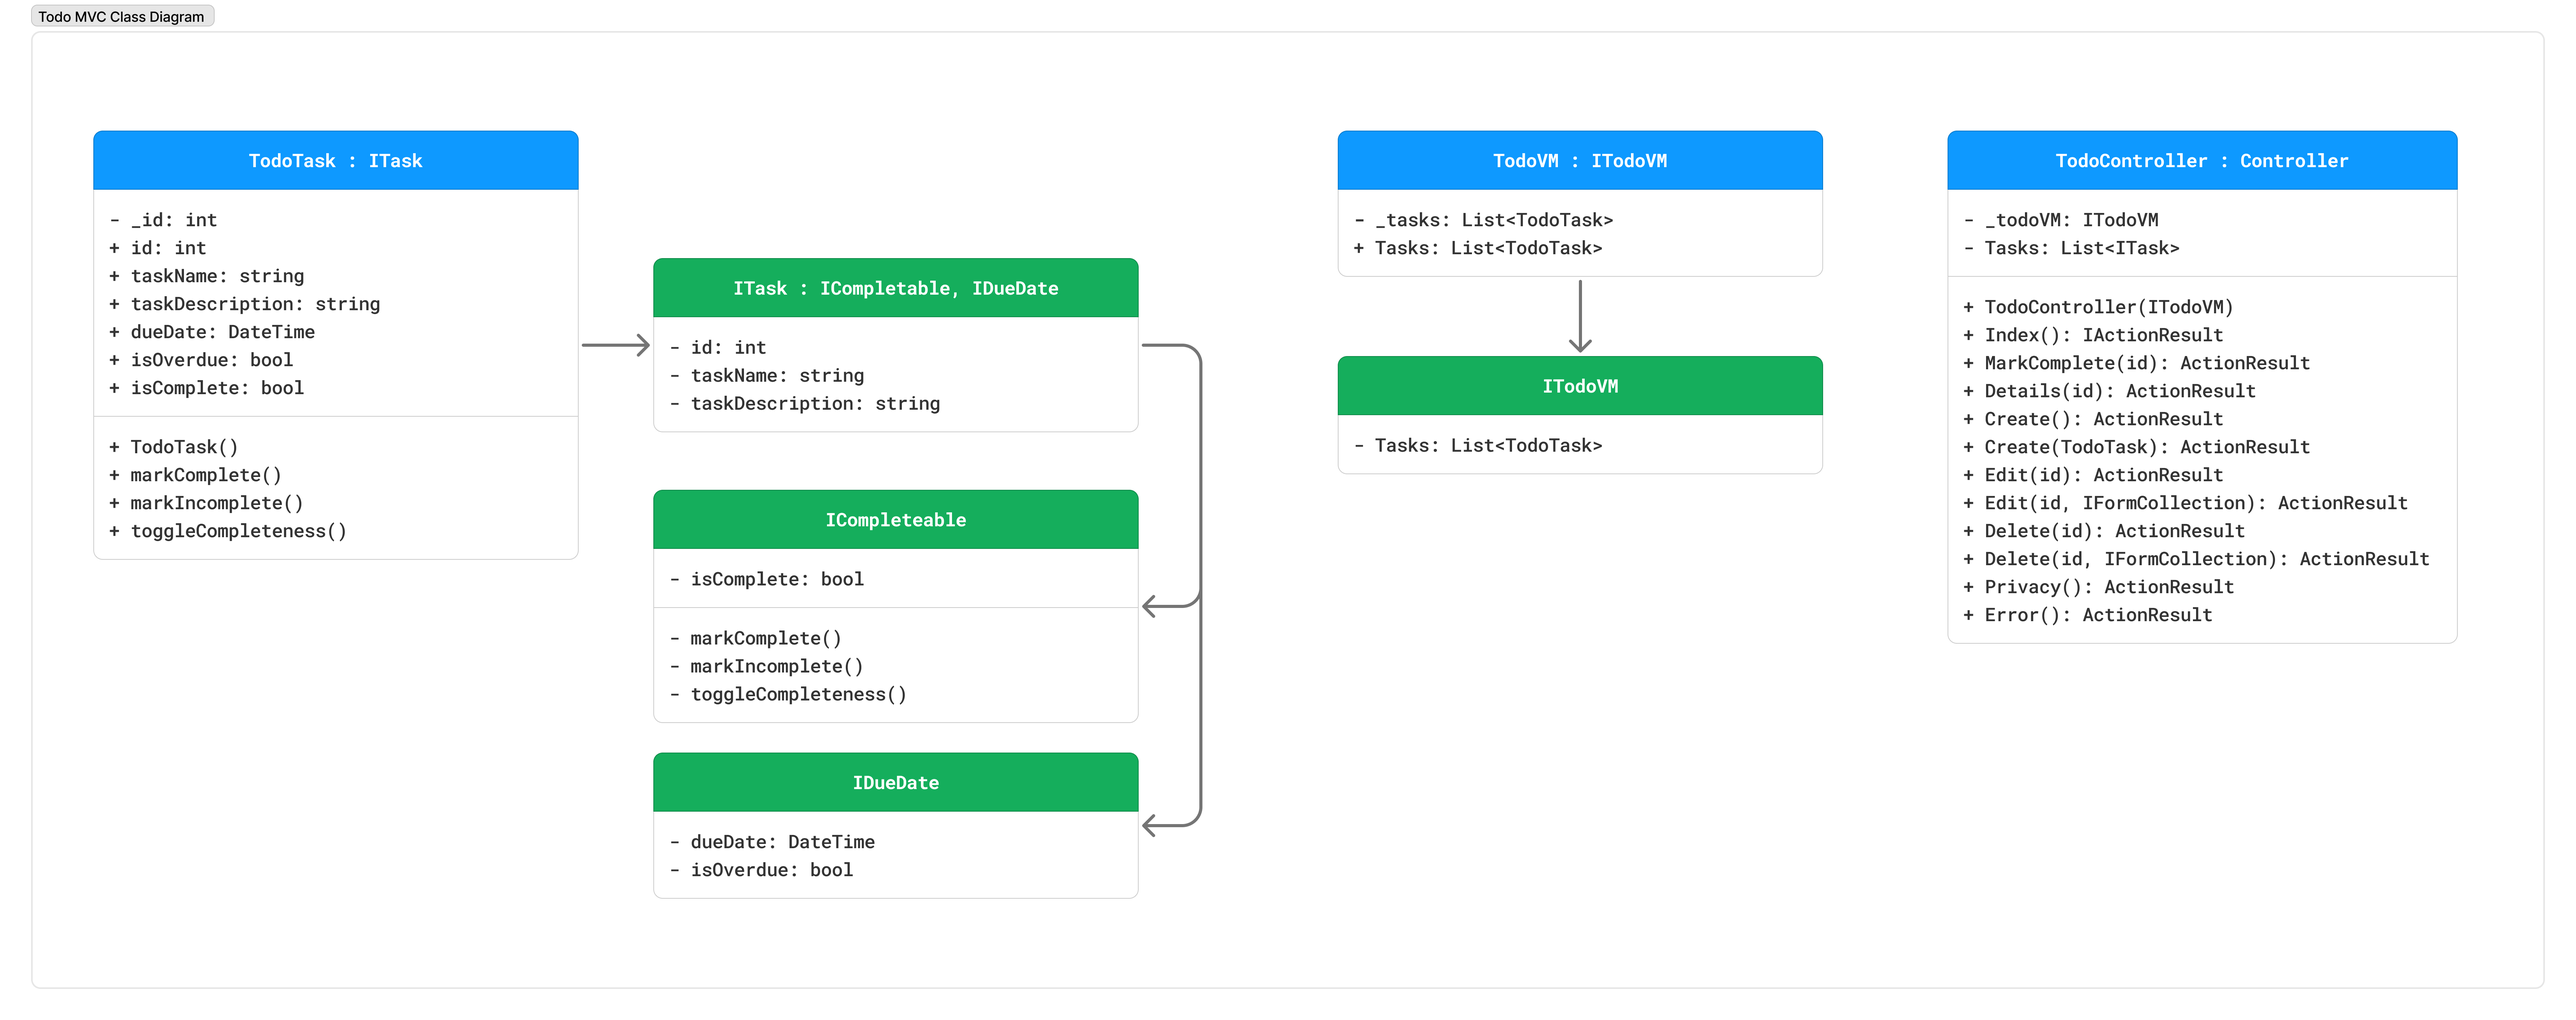
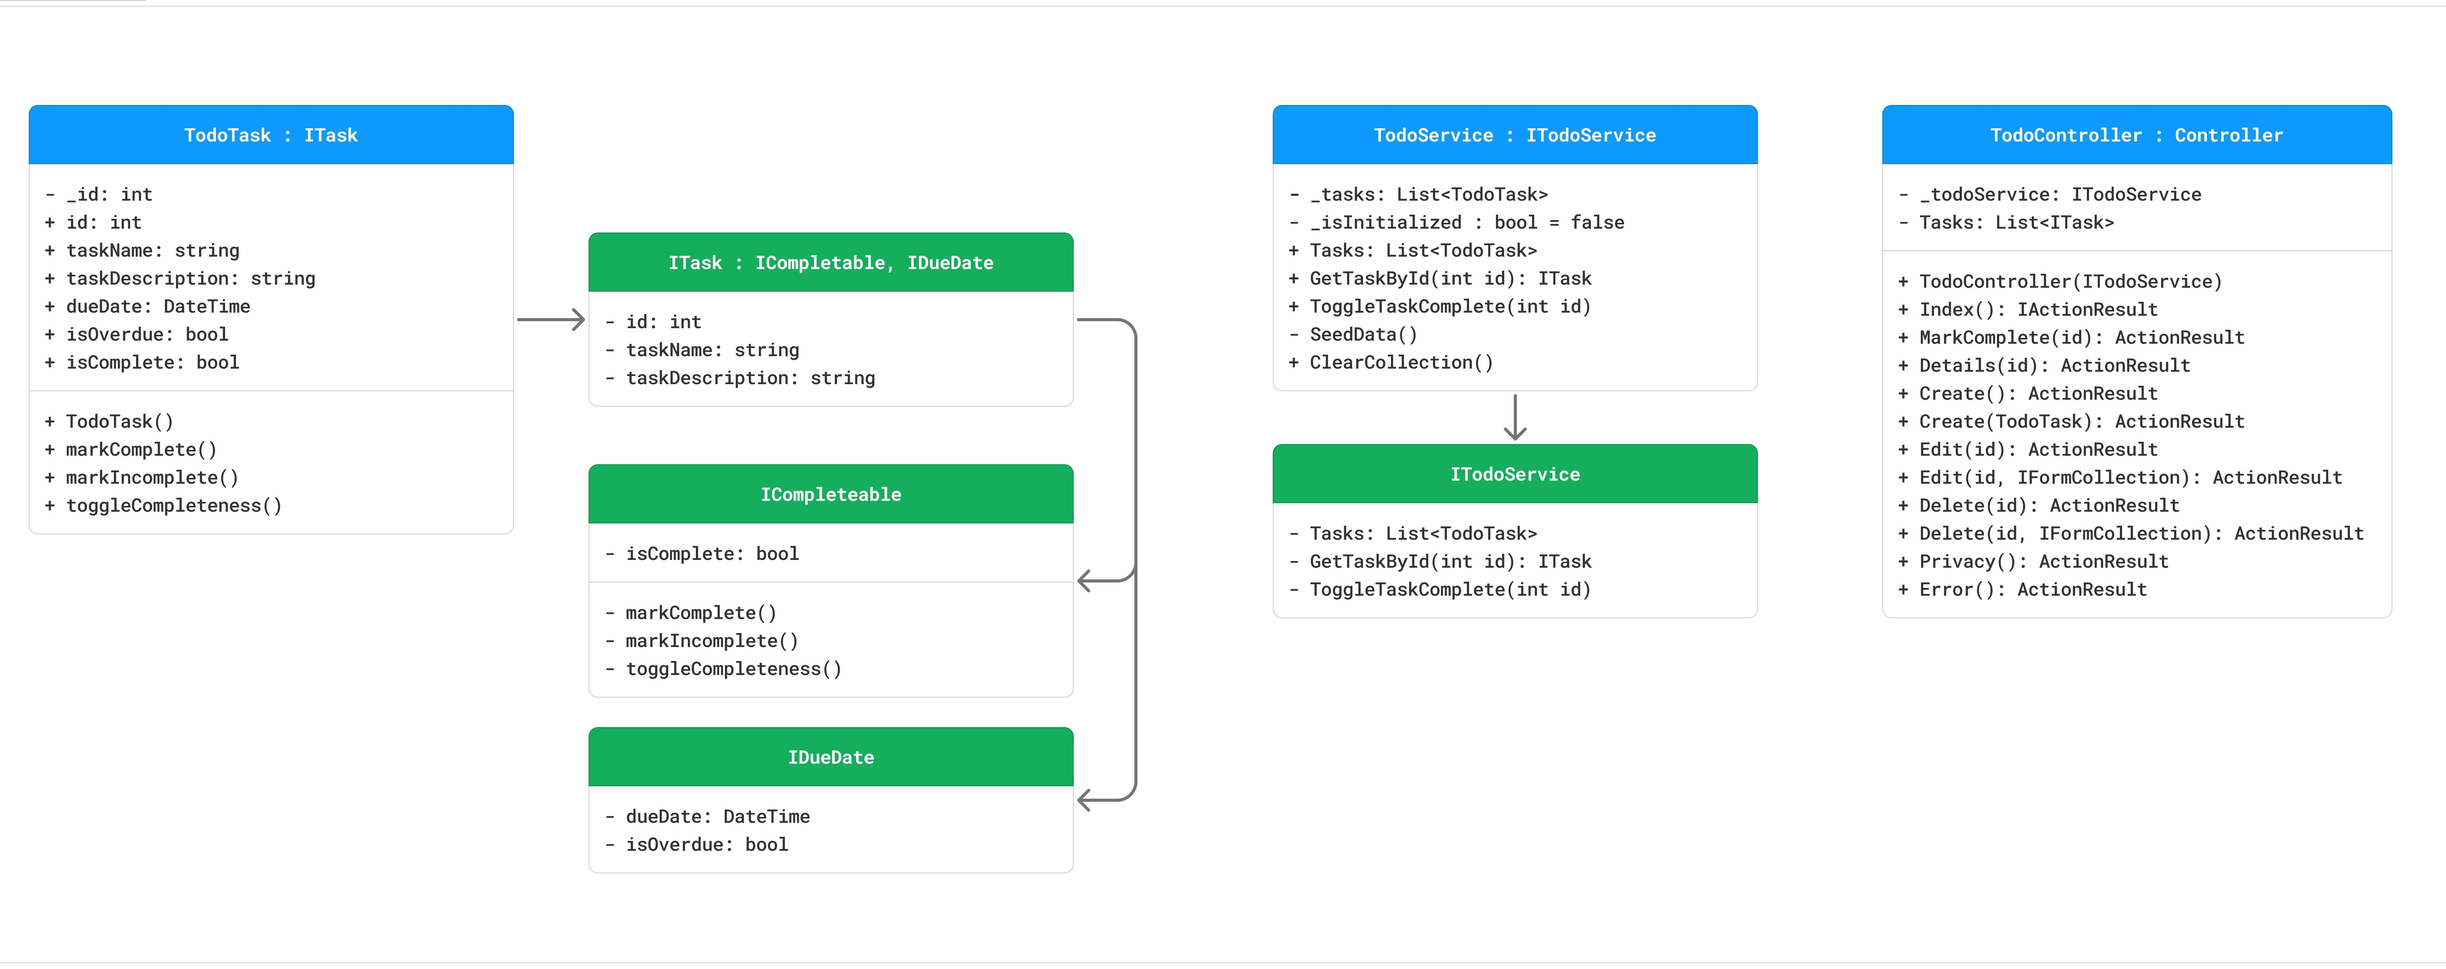
Updates ITodoService, UML and app screenshot

diff --git a/TodoMVC/Services/TodoService.cs b/TodoMVC/Services/TodoService.cs
@@ -5,7 +5,6 @@
 
 using Microsoft.VisualBasic;
 using System;
-using System.Security.Cryptography.X509Certificates;
 using TodoMVC.Models.TodoModels;
 
 namespace TodoMVC.Services
@@ -54,7 +53,7 @@ namespace TodoMVC.Services
 
         //seed pre-made tasks at launch
         //very lightly supports SOC
-        private void SeedData()
+        public void SeedData()
         {
             _tasks = new List<ITask>
             {

diff --git a/TodoMVC/Services/ITodoService.cs b/TodoMVC/Services/ITodoService.cs
@@ -8,5 +8,9 @@ namespace TodoMVC.Services
         ITask GetTaskById(int id);
 
         void ToggleTaskComplete(int id);
+
+        void SeedData();
+
+        static void ClearCollection() { }; 
     }
 }
